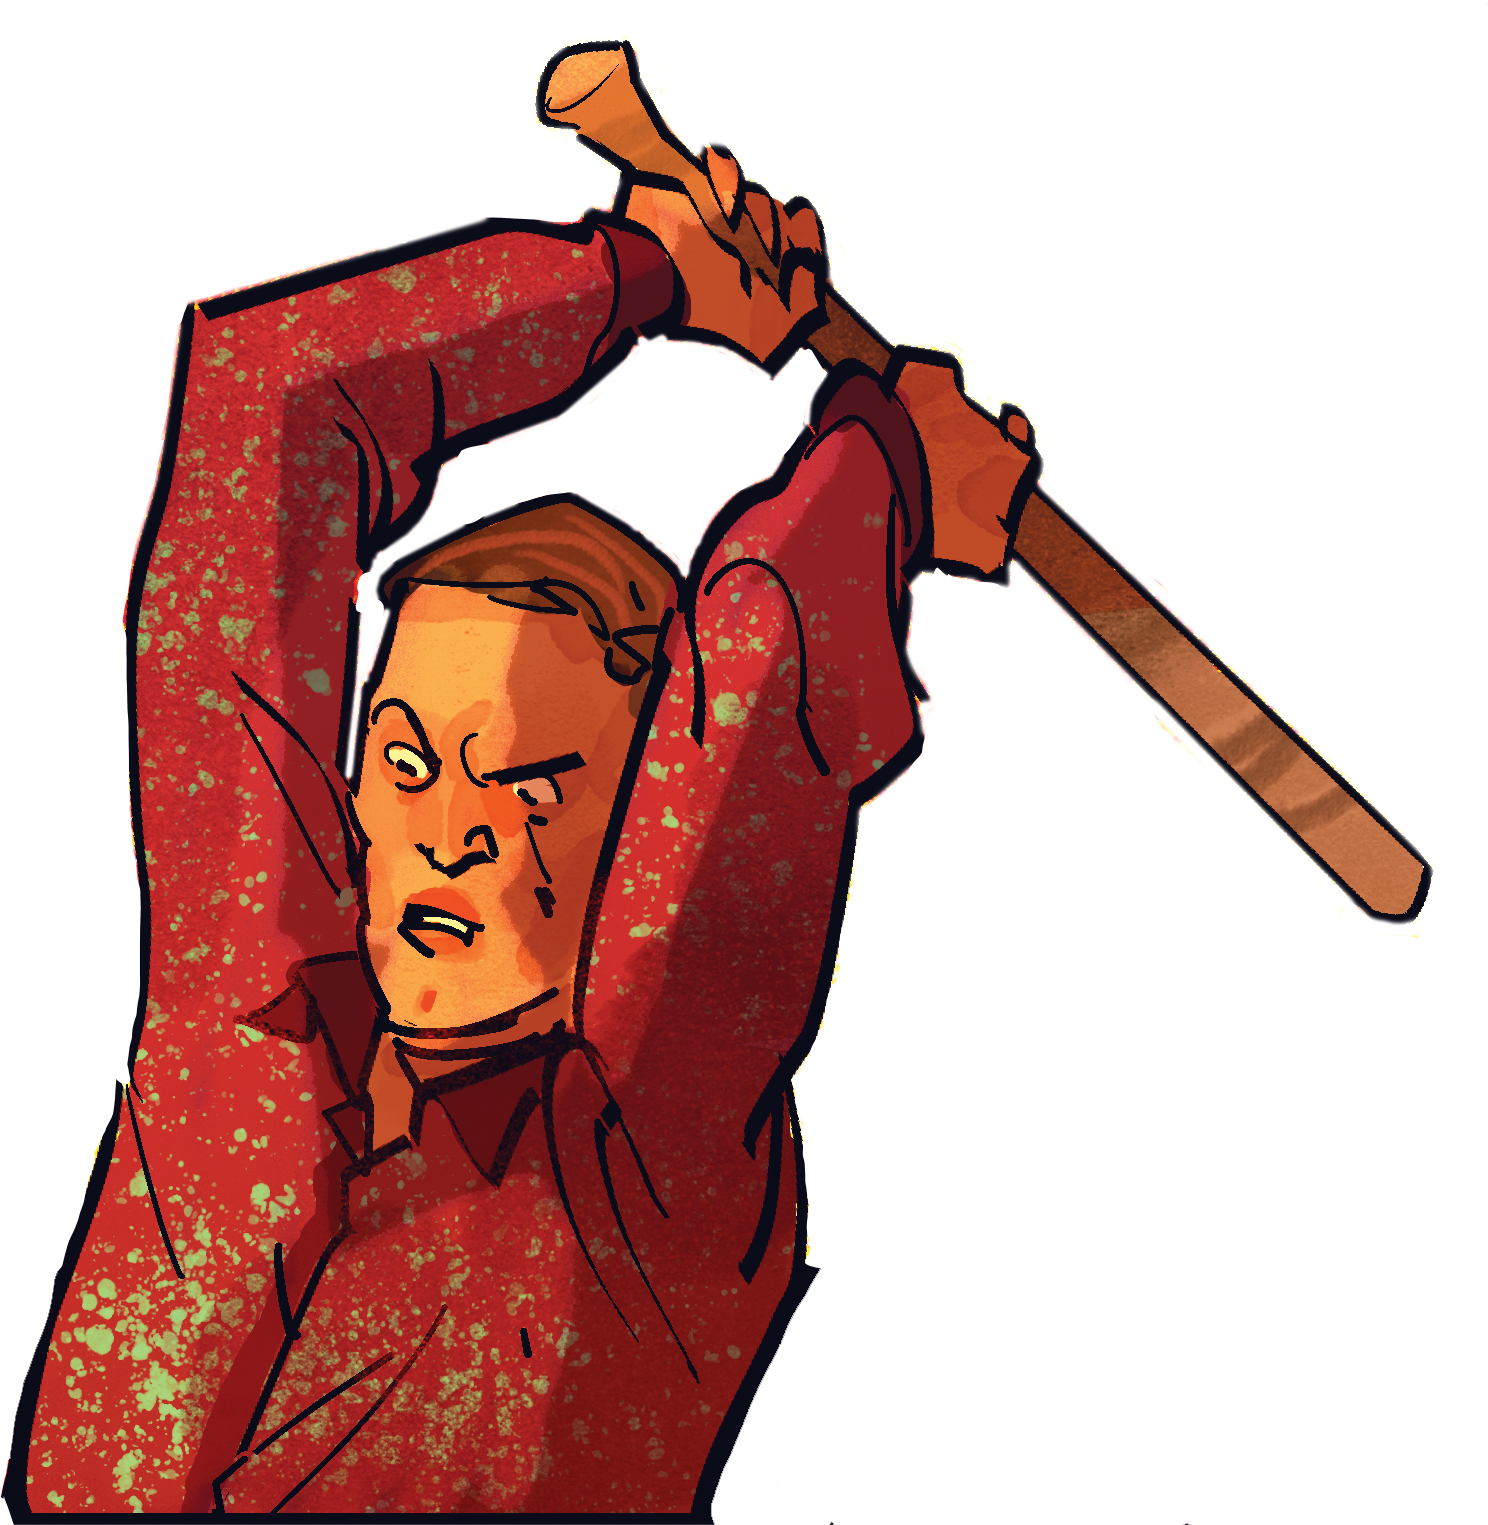
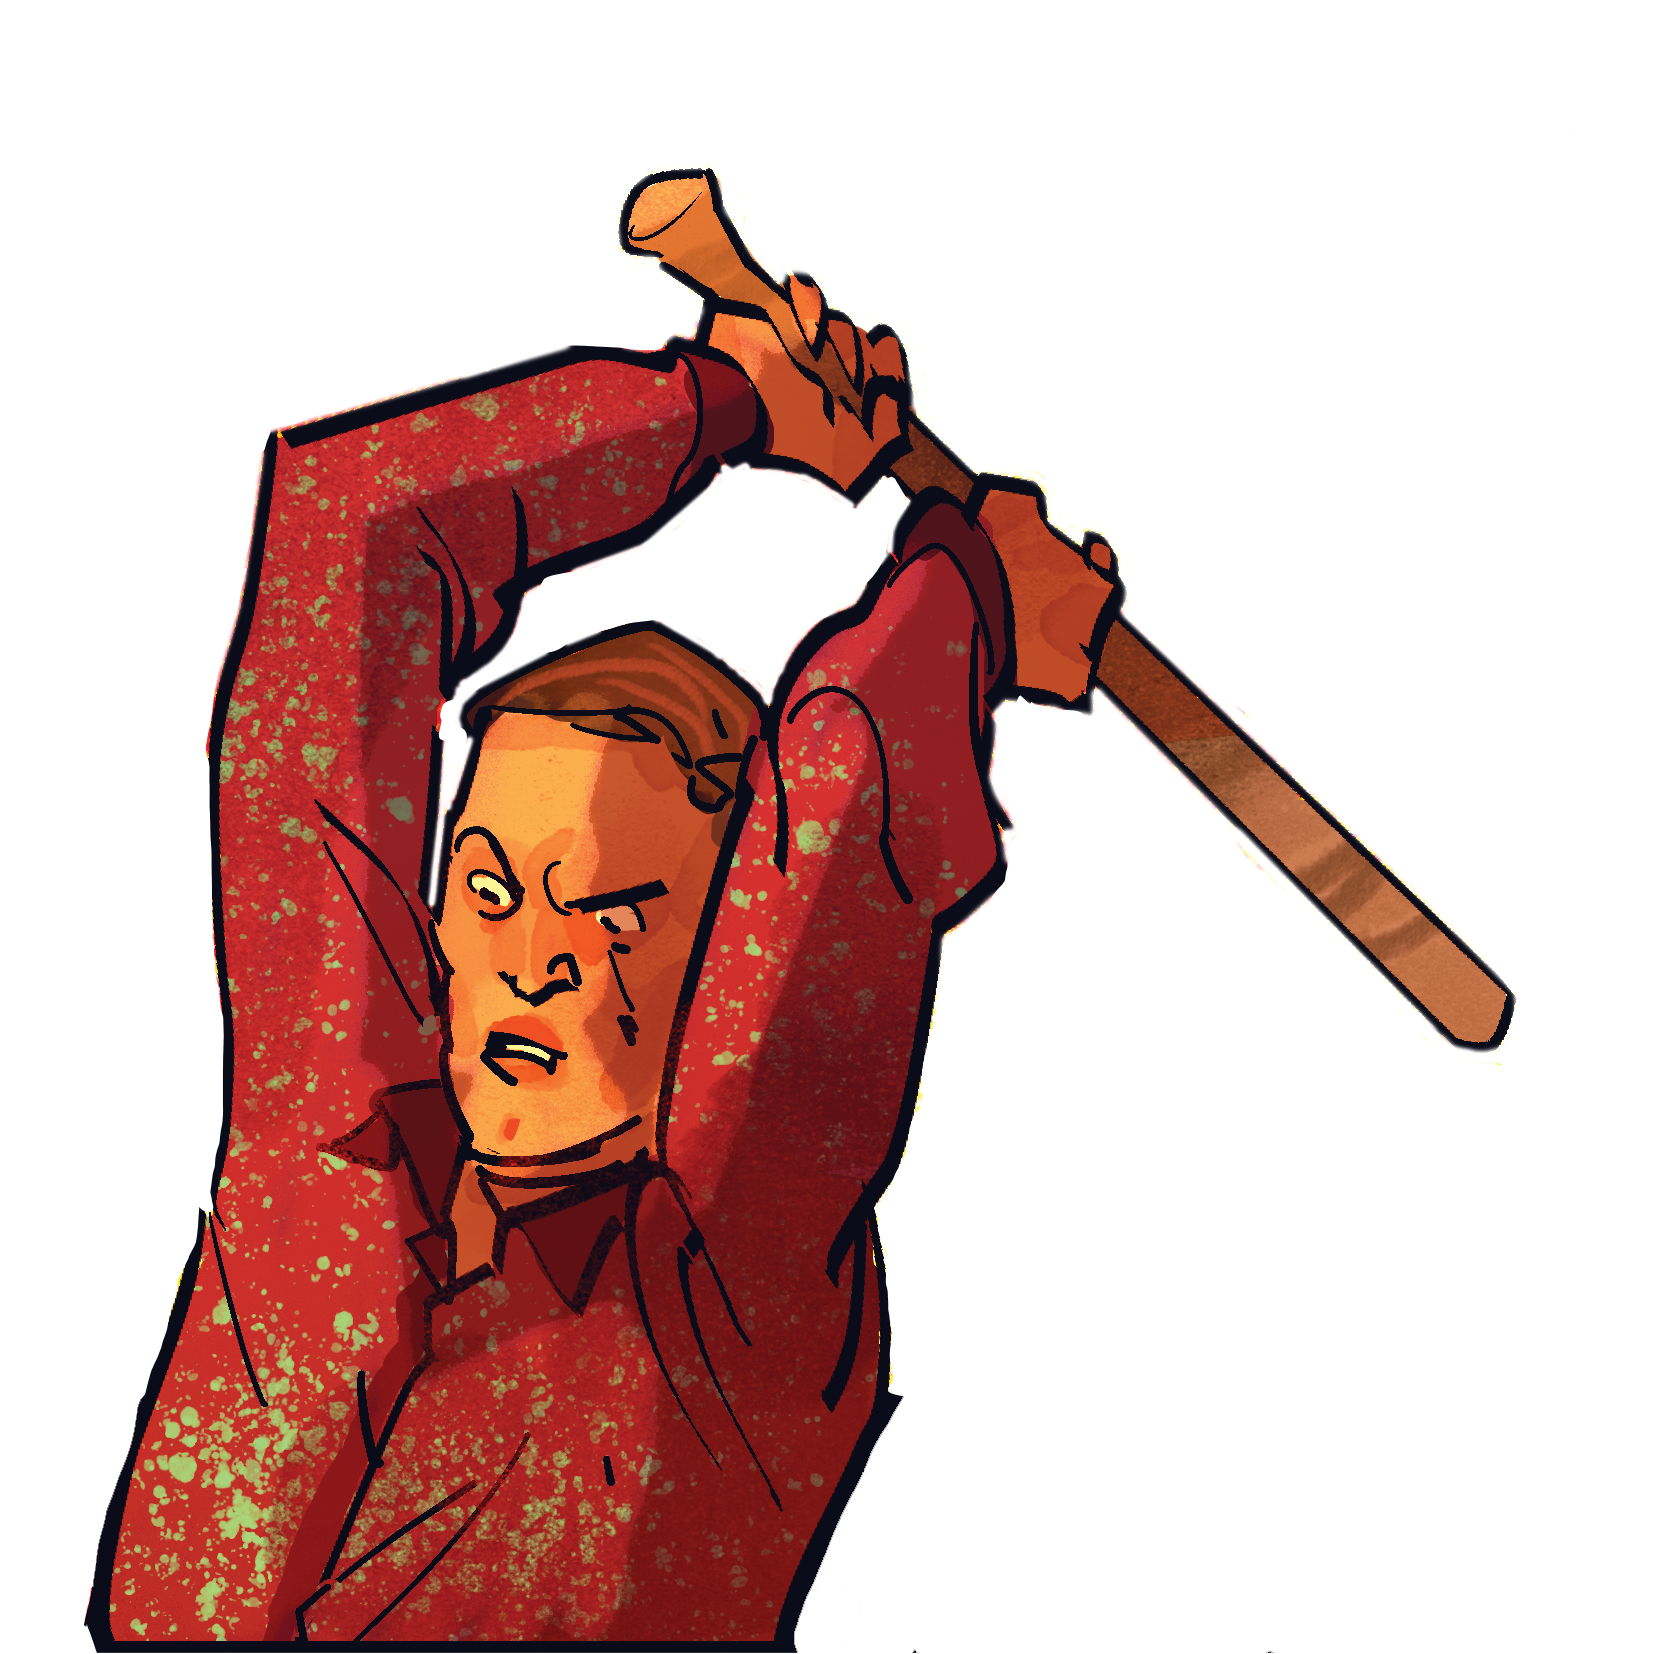
Style image to fix positioning issues

diff --git a/index.html b/index.html
@@ -54,8 +54,10 @@
                 like the Truman Show as envisaged by Hunter S. Thompson.
             </p>
         </div>
-        <div id="about-image">
-            <img src="/assets/images/jacko bat.png" alt="An illustration of Paulie from Cuddles: A last Chance Crime Story. Illustrated by Marco Perugini, and coloured by Shan Bennion">
+        <div id="about-image-container">    
+            <div id="about-image">
+                <img src="/assets/images/jacko bat.png" alt="An illustration of Paulie from Cuddles: A last Chance Crime Story. Illustrated by Marco Perugini, and coloured by Shan Bennion">
+            </div>
         </div>
     </section>
     <section>

diff --git a/assets/css/style.css b/assets/css/style.css
@@ -57,8 +57,10 @@ header{
 #about{
     clear:both;
     background-color: var(--dark-gray,black);
-    height:900px;
+    height: 400px;
     margin: 0 10% 0 10%;
+    position: relative;
+    
 }
 #about-text{
     float:left;
@@ -76,14 +78,14 @@ header{
 #about p{
     color:var(--light-gray,gray);
 }
-
-#about-image{
+#about-image-container{
     float:right;
     width:40%;
 }
+#about-image{
+    height: 400px;
+}
 #about-image > img{
-    width:100%;
-    padding:5% 10% 0 0;
-    position: relative;
-    bottom:0;
+    max-height: 100%;
+
 }
